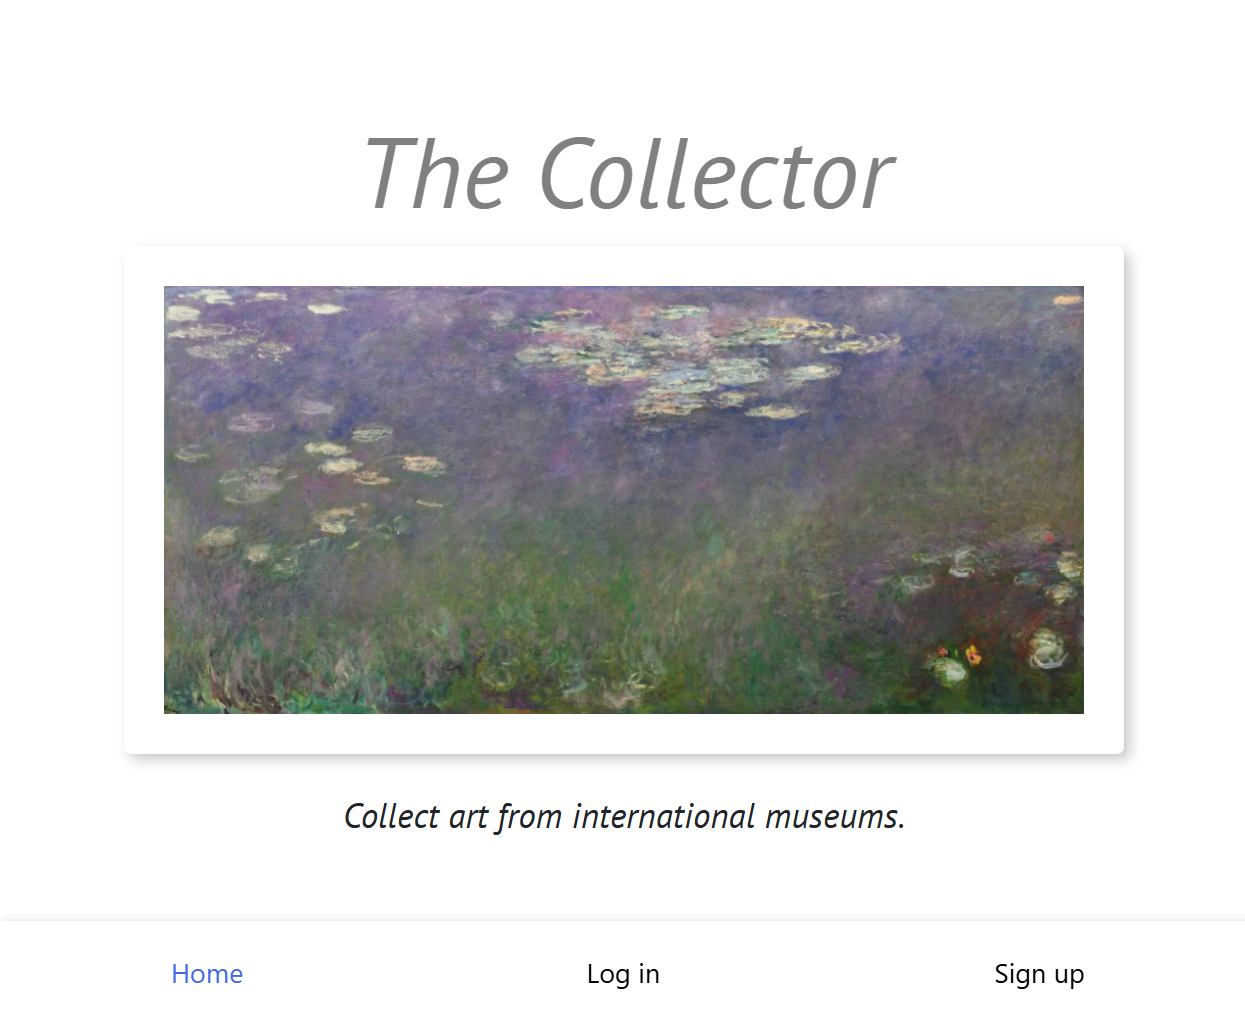
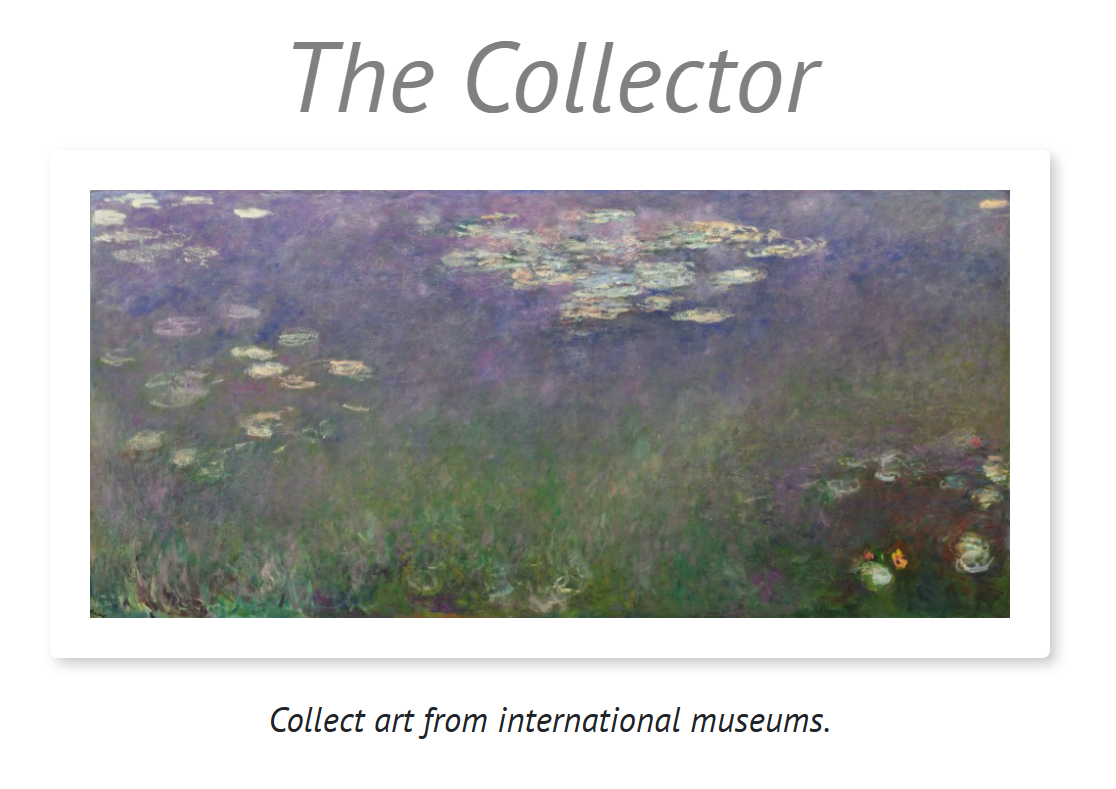
styling

diff --git a/src/sass/components/_work.scss b/src/sass/components/_work.scss
@@ -1,8 +1,11 @@
 .work {
   box-sizing: border-box;
-  //   &:not(:last-child) {
-  //     margin-bottom: 2rem;
-  //   }
+  width: 100%;
+  height: 100vh;
+  display: flex;
+  flex-direction: column;
+  justify-content: center;
+  align-items:center;
   &icons {
     height: 10rem;
   }
@@ -12,11 +15,11 @@
   perspective: 150rem;
   -moz-perspective: 150rem;
   position: relative;
-  width: 26rem;
-  height: 15rem;
+  width: 20rem;
+  height: 14rem;
   color: #247291;
   font-size: 0.75rem;
-
+  padding: 0;
   margin: 0 0 3rem 0;
   & ul {
     list-style: none;
@@ -27,7 +30,6 @@
       //line-height: 40px;
       width: auto;
       padding: 0.25rem 1rem;
-      color: red;
       font-size: 0.85rem;
       font-family: open sans;
     }
@@ -49,15 +51,11 @@
       bottom: 1rem;
       right: 1rem;
     }
-    &--front {
-    }
     &--back {
       display: flex;
-      //flex-direction: column;
       justify-content: center;
       align-items: center;
       text-align: left;
-      width: 100%;
       transform: rotateY(-180deg);
       border: 2px solid #f8da5b;
       background-color: #f8f7f5;
@@ -70,36 +68,32 @@
     transform: rotateY(0deg);
   }
   &__icons {
-    padding: 6rem 0 1rem 0;
-    display: flex;
-    justify-content: center;
+    padding: 6rem 0 1rem;
 
     & > img {
       padding: 0.5rem;
       color: grey;
-      width: 3rem;
-      height: 3rem;
+      width: 2rem;
+      height: 2rem;
     }
   }
 
   .screenshot {
-    max-width: 100%;
-    height: auto;
-
+    width: 20rem;
+    height: 14rem;
+    object-fit: cover;
     &-2 {
       max-width: 100%;
     }
   }
 }
-
-.github {
-  width: 3rem;
-  margin: 0 0 1rem 0;
+.github-wrap {
+  display: block;
+  margin: -2rem auto 0 auto;
+  padding: 0;
+  width: 100%;
 }
-
 .github-link {
-  width: 6rem;
-  position: absolute;
-  top: 4rem;
-  right: 4rem;
+  padding: 0;
+  width: 2.25rem;
 }

diff --git a/src/style.css b/src/style.css
@@ -57,6 +57,12 @@ a:hover:active {
 
 .work {
   box-sizing: border-box;
+  width: 100%;
+  height: 100vh;
+  display: flex;
+  flex-direction: column;
+  justify-content: center;
+  align-items: center;
 }
 .workicons {
   height: 10rem;
@@ -66,10 +72,11 @@ a:hover:active {
   perspective: 150rem;
   -moz-perspective: 150rem;
   position: relative;
-  width: 26rem;
-  height: 15rem;
+  width: 20rem;
+  height: 14rem;
   color: #247291;
   font-size: 0.75rem;
+  padding: 0;
   margin: 0 0 3rem 0;
 }
 .card ul {
@@ -81,7 +88,6 @@ a:hover:active {
 .card__description-item {
   width: auto;
   padding: 0.25rem 1rem;
-  color: red;
   font-size: 0.85rem;
   font-family: open sans;
 }
@@ -105,7 +111,6 @@ a:hover:active {
   justify-content: center;
   align-items: center;
   text-align: left;
-  width: 100%;
   transform: rotateY(-180deg);
   border: 2px solid #f8da5b;
   background-color: #f8f7f5;
@@ -117,34 +122,33 @@ a:hover:active {
   transform: rotateY(0deg);
 }
 .card__icons {
-  padding: 6rem 0 1rem 0;
-  display: flex;
-  justify-content: center;
+  padding: 6rem 0 1rem;
 }
 .card__icons > img {
   padding: 0.5rem;
   color: grey;
-  width: 3rem;
-  height: 3rem;
+  width: 2rem;
+  height: 2rem;
 }
 .card .screenshot {
-  max-width: 100%;
-  height: auto;
+  width: 20rem;
+  height: 14rem;
+  object-fit: cover;
 }
 .card .screenshot-2 {
   max-width: 100%;
 }
 
-.github {
-  width: 3rem;
-  margin: 0 0 1rem 0;
+.github-wrap {
+  display: block;
+  margin: -2rem auto 0 auto;
+  padding: 0;
+  width: 100%;
 }
 
 .github-link {
-  width: 6rem;
-  position: absolute;
-  top: 4rem;
-  right: 4rem;
+  padding: 0;
+  width: 2.25rem;
 }
 
 .computer__wrap {

diff --git a/src/pages/Work.jsx b/src/pages/Work.jsx
@@ -38,14 +38,14 @@ const Work = () => {
         />
       </div>
 
-      <div className="work center">
+      <div className="work">
         <div class="card">
           <div class="card__side card__side--front">
             <img
               src="assets/best.png
           "
               alt="screenshot of"
-              className="screenshot-2"
+              className="screenshot"
             />
           </div>
           <div class="card__side card__side--back card__side--back-1">
@@ -115,12 +115,14 @@ const Work = () => {
           </div>
         </div>
       </div>
-      <a className="github-link" href="https://github.com/dbcode1">
-        <img
-          className="github"
-          src="https://cdn.jsdelivr.net/gh/devicons/devicon@latest/icons/github/github-original-wordmark.svg"
-        />
-      </a>
+      <div className="github-wrap">
+        <a className="github-link" href="https://github.com/dbcode1">
+          <img
+            className="github"
+            src="https://cdn.jsdelivr.net/gh/devicons/devicon@latest/icons/github/github-original-wordmark.svg"
+          />
+        </a>
+      </div>
     </motion.div>
   );
 };

diff --git a/src/components/Computer.jsx b/src/components/Computer.jsx
@@ -2,8 +2,12 @@ import React from "react";
 const Computer = () => {
   return (
     <div className="computer__wrap">
-      <img src="/assets/computer.svg" alt="computer-icon" className="computer"></img>
-      <h1 className="hello">Hello World. Im' Daniel</h1>
+      <img
+        src="/assets/computer.svg"
+        alt="computer-icon"
+        className="computer"
+      ></img>
+      <h1 className="hello">Hello World. I'm Daniel</h1>
     </div>
   );
 };
